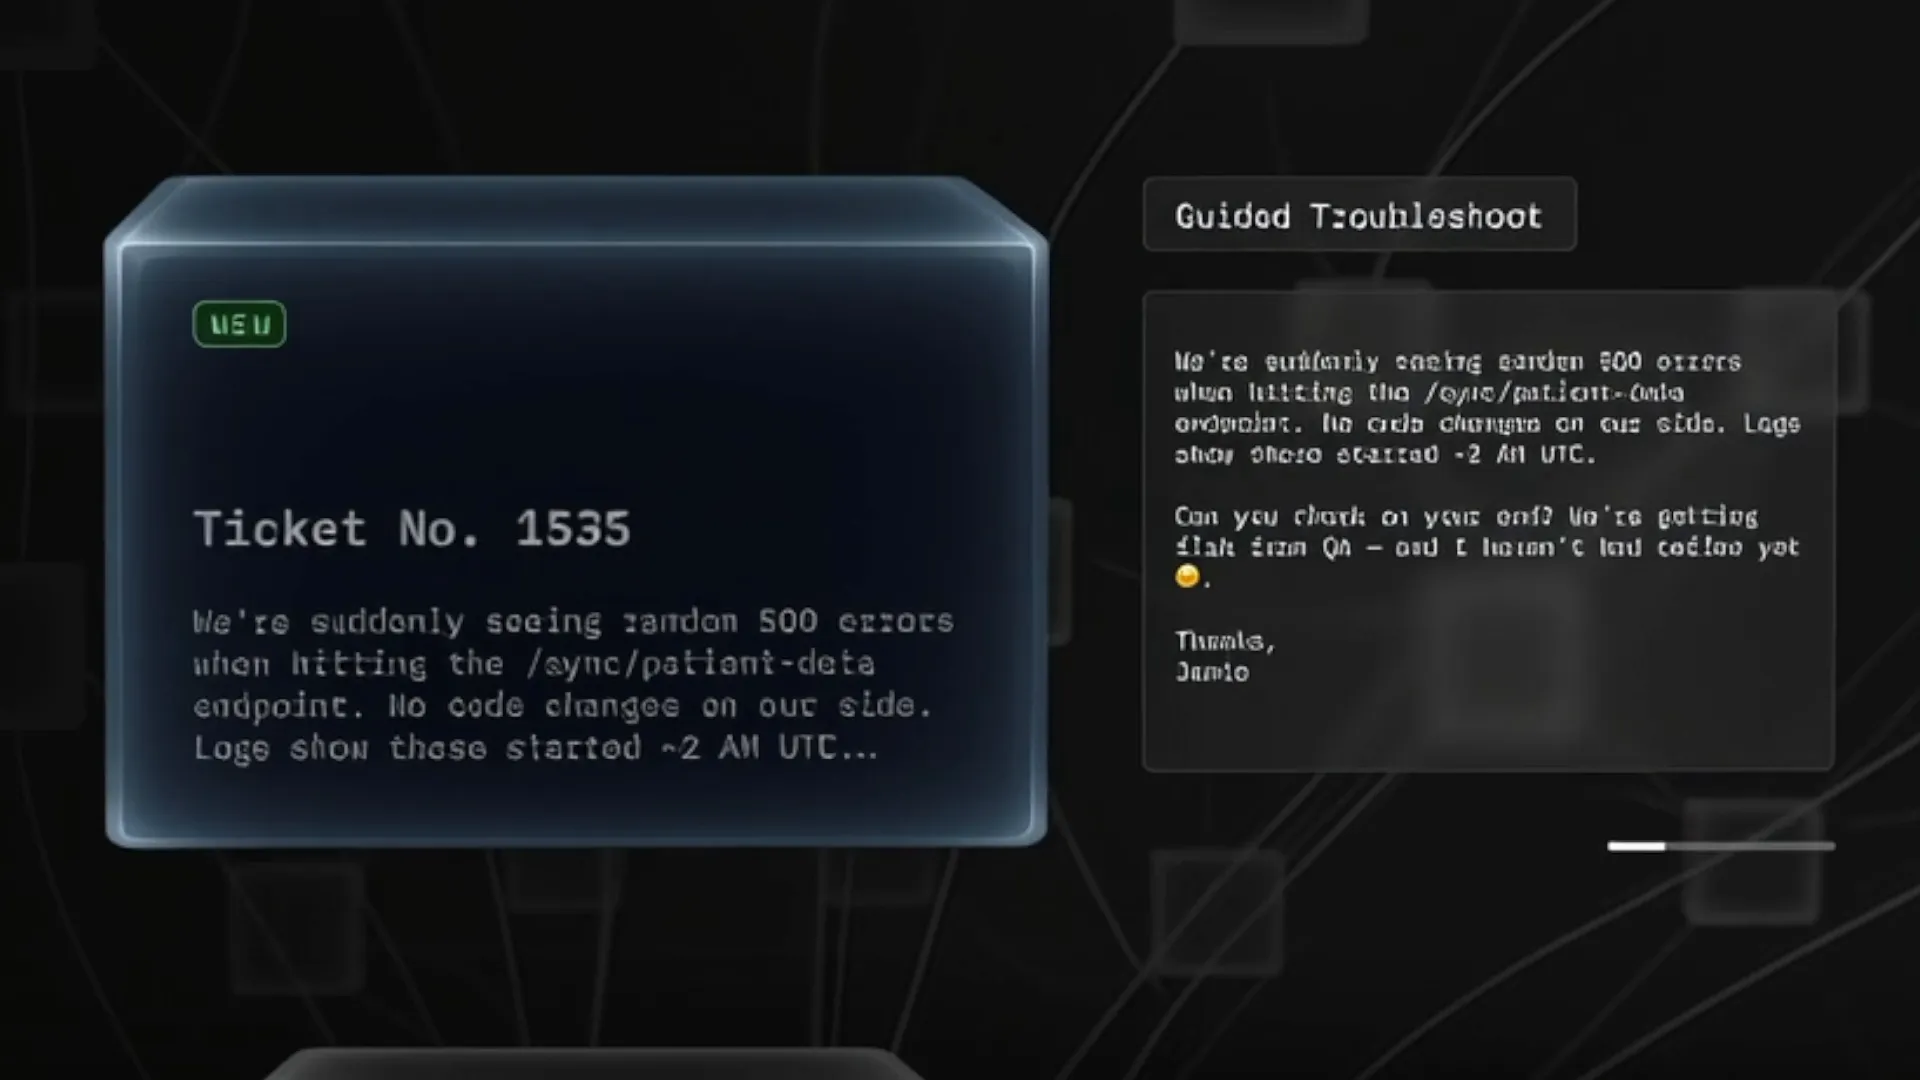
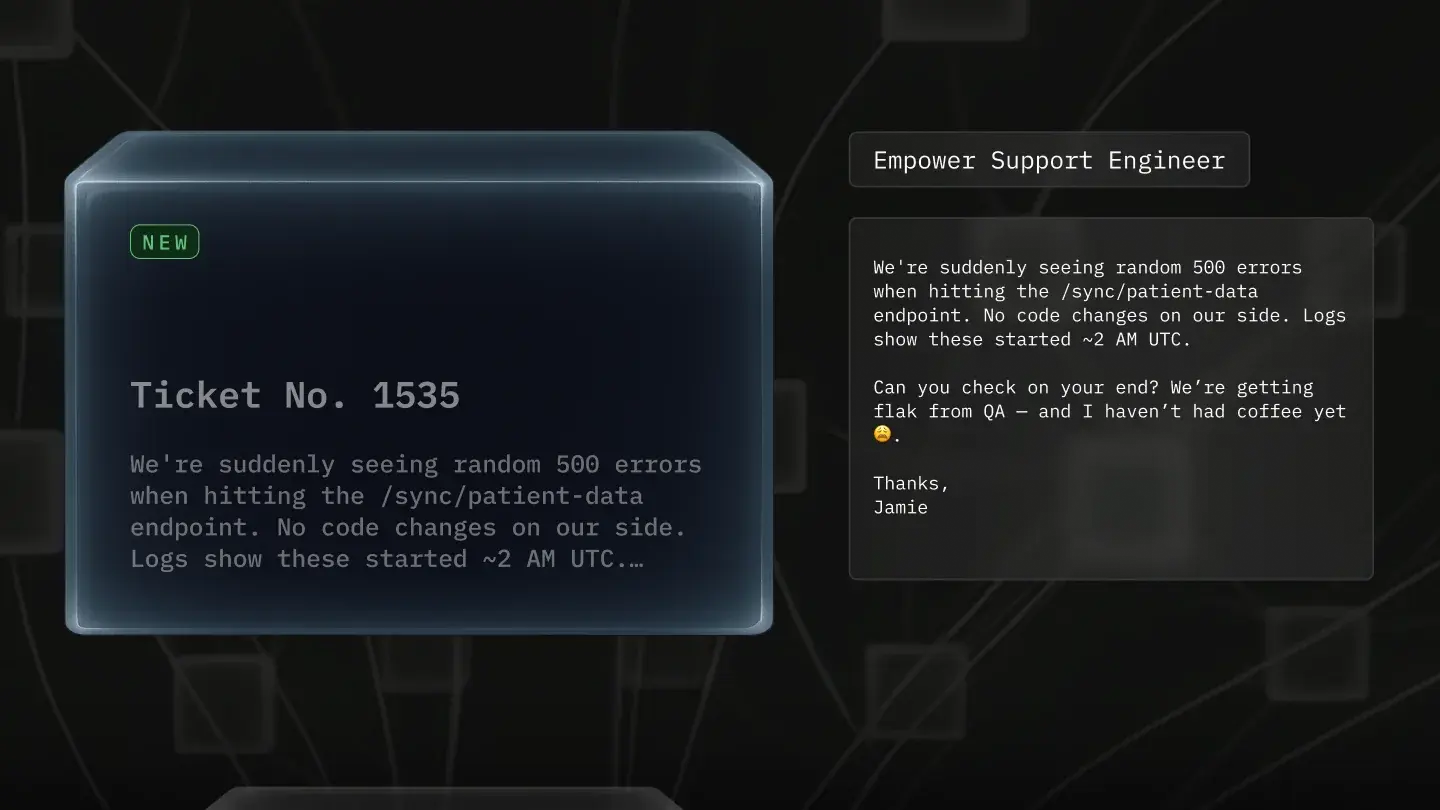
Fix desktop Webp fix

diff --git a/src/components/scroll-sections/WebPSequence/WebPSequence.jsx b/src/components/scroll-sections/WebPSequence/WebPSequence.jsx
@@ -427,13 +427,21 @@ const WebPSequence = ({
        {(() => {
          const isMobile = framePrefix === 'mobile_frame_';
          const shouldShow = isMobile 
-           ? (currentFrame >= 4 && currentFrame <= 320)  // Mobile: frames 4-320
+           ? (currentFrame >= 4 && currentFrame <= 318)  // Mobile: frames 4-320
            : (currentFrame >= 4 && currentFrame <= 233); // Desktop: frames 4-233
          
          return shouldShow && (
            <div className="troubleshooting-text-overlay">
              <div className="troubleshooting-text">
-               AI that automatically builds and nurtures your Troubleshooting Map
+               {isMobile ? (
+                 <>
+                   AI that automatically builds<br />
+                   and nurtures your<br />
+                   Troubleshooting Map
+                 </>
+               ) : (
+                 "AI that automatically builds and nurtures your Troubleshooting Map"
+               )}
              </div>
            </div>
          );

diff --git a/src/components/scroll-sections/WebPSequence/WebPSequence.css b/src/components/scroll-sections/WebPSequence/WebPSequence.css
@@ -490,6 +490,15 @@ color: gray;
   animation: fadeInText 1.2s ease-out;
 }
 
+/* Mobile-specific text styling */
+@media (max-width: 768px) {
+  .troubleshooting-text {
+    white-space: normal;
+    line-height: 1.2;
+    padding: 0 1rem;
+  }
+}
+
 @keyframes fadeInText {
   0% {
     opacity: 0;
@@ -520,6 +529,8 @@ color: gray;
     font-size: 1.5rem;
     max-width: 90%;
     line-height: 1.3;
+    white-space: normal;
+    padding: 0 1rem;
   }
 }
 
@@ -528,6 +539,8 @@ color: gray;
     font-size: 1.2rem;
     max-width: 95%;
     line-height: 1.4;
+    white-space: normal;
+    padding: 0 0.5rem;
   }
 }
 
@@ -535,6 +548,8 @@ color: gray;
   .troubleshooting-text {
     font-size: 1rem;
     max-width: 98%;
+    white-space: normal;
+    padding: 0 0.25rem;
   }
 }
 

diff --git a/src/components/scroll-sections/Demo/Demo.jsx b/src/components/scroll-sections/Demo/Demo.jsx
@@ -942,7 +942,7 @@ export default function Demo() {
             activeSection={activeSection}
             sectionProgress={sectionProgress}
             // Scroll stop functionality - using configuration
-            stopFrame={324} // Mobile stop frame
+            stopFrame={320} // Mobile stop frame
             timelineDuration={scrollStopConfig.timelineDuration}
             timelinePosition={scrollStopConfig.timelinePosition}
             playButtonPosition={scrollStopConfig.playButtonPosition}
